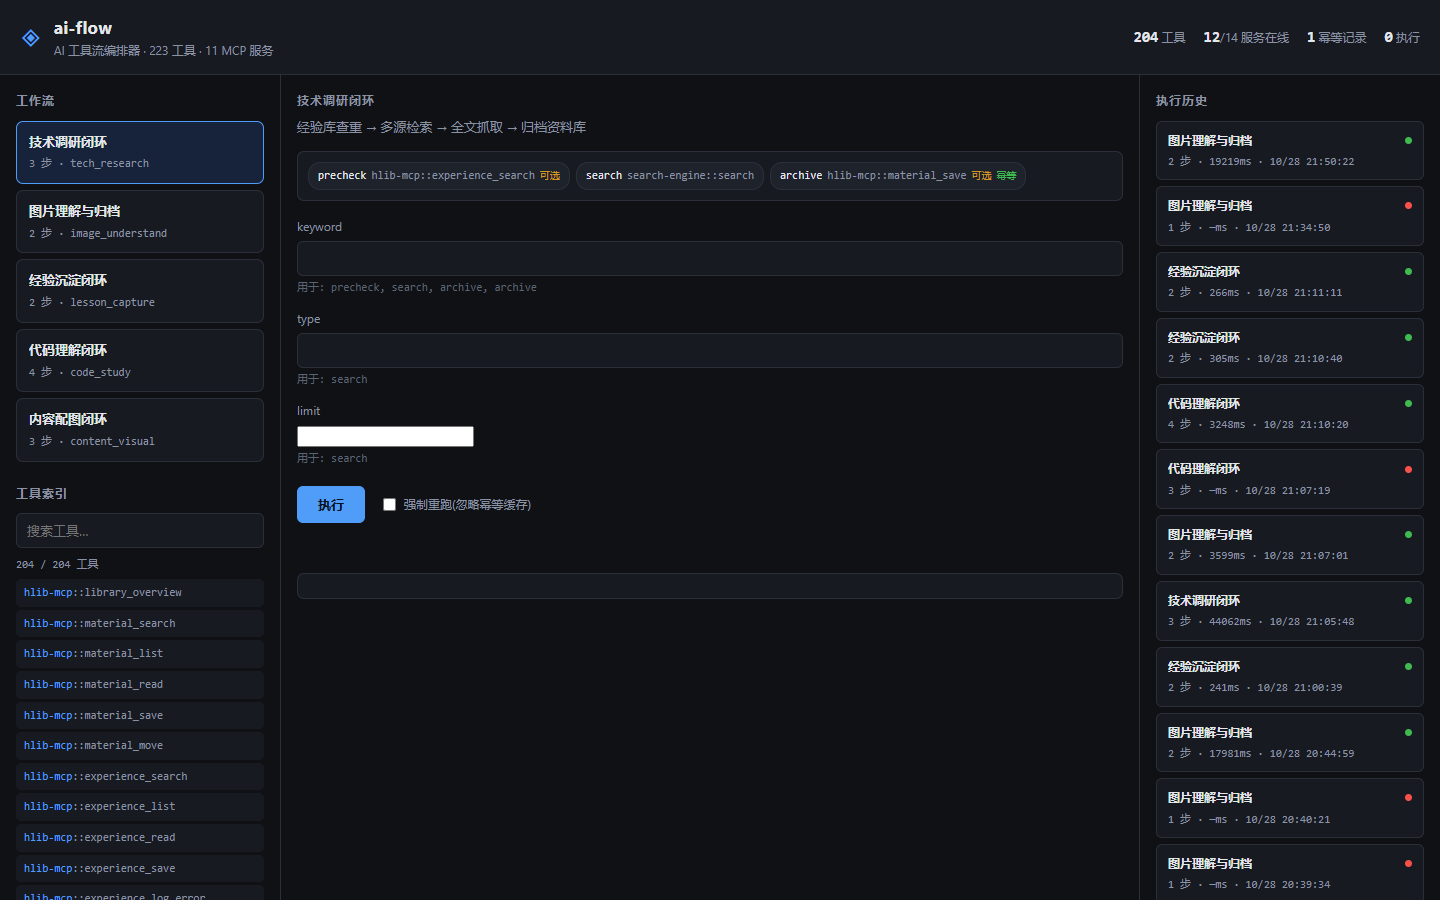
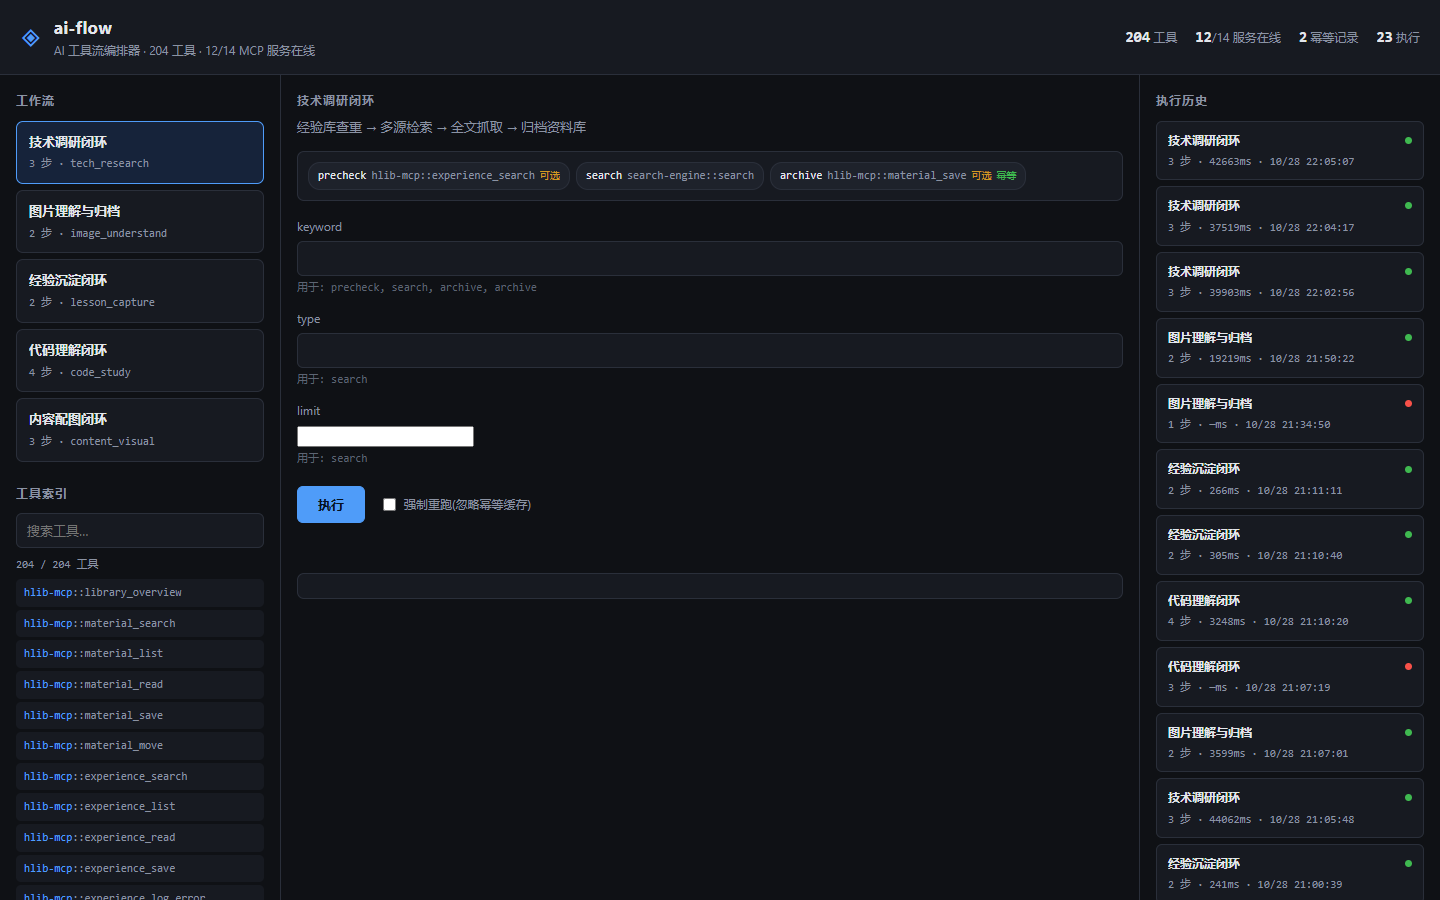
fix: 并发连接复用(看板统计0/14竞态)+启动看板.bat+README启动说明

diff --git a/core/registry.js b/core/registry.js
@@ -31,12 +31,25 @@ class ToolRegistry {
     this.servers = new Map();   // serviceName -> { client, tools: Map, status }
     this.index = new Map();     // qualifiedName -> tool descriptor
     this.proxyNotes = [];       // 记录哪些服务被注入了代理
+    this.connecting = new Map(); // serviceName -> in-flight connect promise(防并发重复连接)
   }
 
   /** 启动服务并拉取工具清单 */
   async connect(serviceName, { timeoutMs = 30000 } = {}) {
     if (this.servers.has(serviceName)) return this.servers.get(serviceName);
 
+    // 并发调用同一服务时,复用进行中的连接,避免"第二个调用者拿到还在握手的实例"
+    if (this.connecting.has(serviceName)) {
+      return this.connecting.get(serviceName);
+    }
+    const p = this._connectInner(serviceName, { timeoutMs }).finally(() => {
+      this.connecting.delete(serviceName);
+    });
+    this.connecting.set(serviceName, p);
+    return p;
+  }
+
+  async _connectInner(serviceName, { timeoutMs = 30000 } = {}) {
     const cfg = this.registry[serviceName];
     if (!cfg) throw new Error(`未注册的 MCP 服务: ${serviceName}`);
 

diff --git a/README.md b/README.md
@@ -86,7 +86,13 @@ search-engine hlib-mcp   cv-annot    novel-library  experience   photoshop
 
 ## 3.1 Web 看板
 
-`node server.js` 后打开 `http://127.0.0.1:8792`：
+**启动**：双击 `启动看板.bat`（自动开浏览器；按端口精确清理旧进程，不误伤其他 node 程序），或手动：
+
+```
+node server.js
+```
+
+打开 `http://127.0.0.1:8792`：
 
 - 左栏：5 个内置工作流 + 204 个工具的统一索引（实时搜索）
 - 中栏：步骤预览（标注"可选/幂等"）→ 参数表单（从模板自动推断）→ 执行
